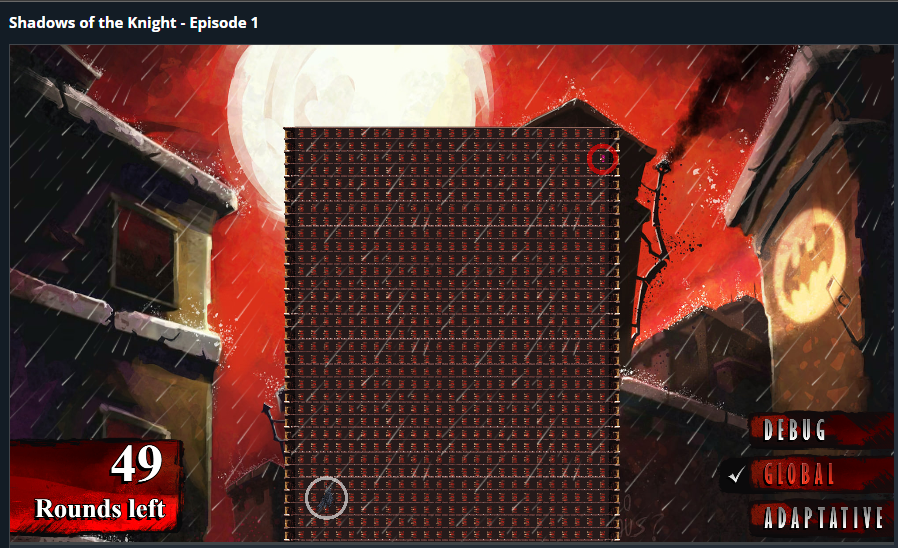
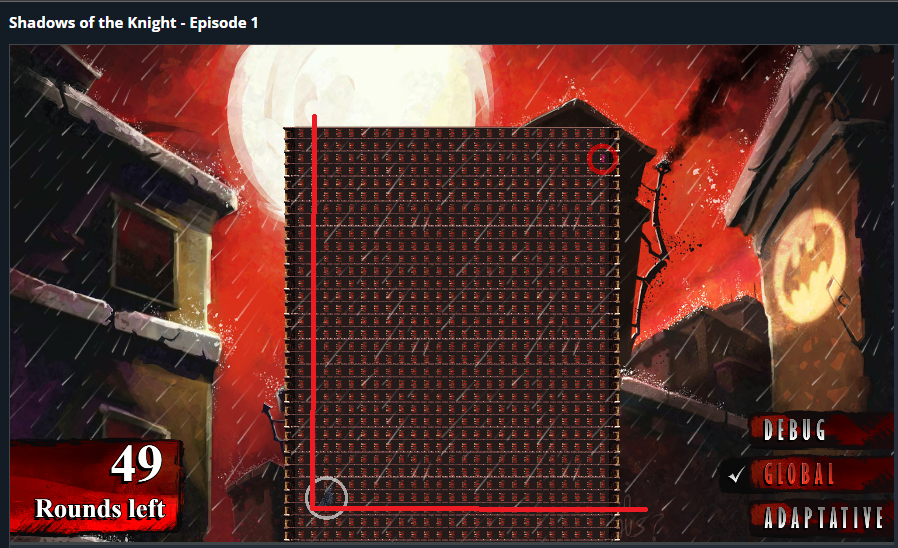
Changed Code to match Partner Recommendations

Changed region(s): [[0.343, 0.2172, 0.7171, 0.9617]]

diff --git a/Shadow_of_Knight_Solution.cpp b/Shadow_of_Knight_Solution.cpp
@@ -18,19 +18,19 @@ This problem requires the user to code a process to get batman to a bomb in a bu
 The output that we give the game is the next location that we would like to move. For
 example, in the picture above the bomb is far up and to the right, so the next location 
 we would want to choose would be to a location like (10,2). 
-*/
 
-/*
+Something that also should be noted about the above picture are the two red lines flanking Batman. These are a graphical representation of what I call "limits". Limits are essentially coordinates, either x or y, that Batman is restricted from going past. So in a future move Batman will use the limits defined before as an outer bounds to help calculate his next move. We decide limits based on the direction that the game gives us for the bomb. For our example above, because the bomb is above and to the right, we know for sure that it is not anywhere below or to the left of our current position. by using this method repeatedly we cut down the search area until we can make our final move with certainty. 
+
 Code 
 ====
 The following will be the source code for the solution, along with some explanation and reasoning behind the solution process.
-*/
 
-// Includes
-// --------
+Includes
+--------
+*/
 #include <iostream>
 #include <string>
-#include <vector>`
+#include <vector>
 #include <algorithm>
 
 using namespace std;
